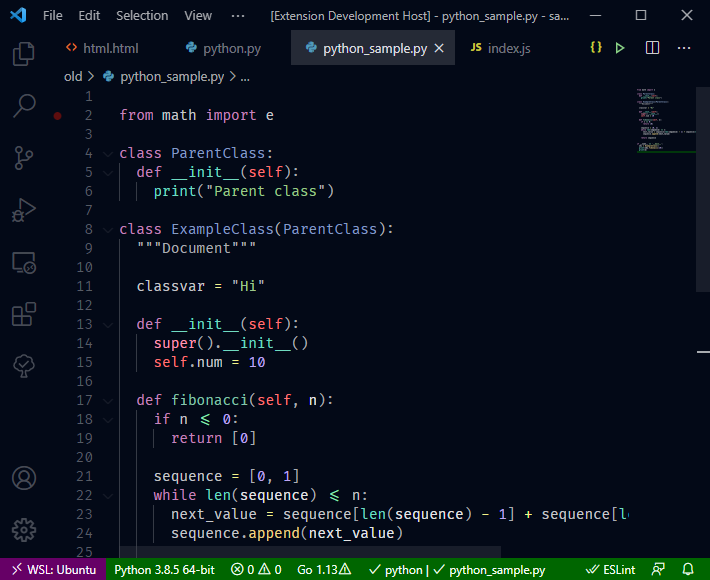
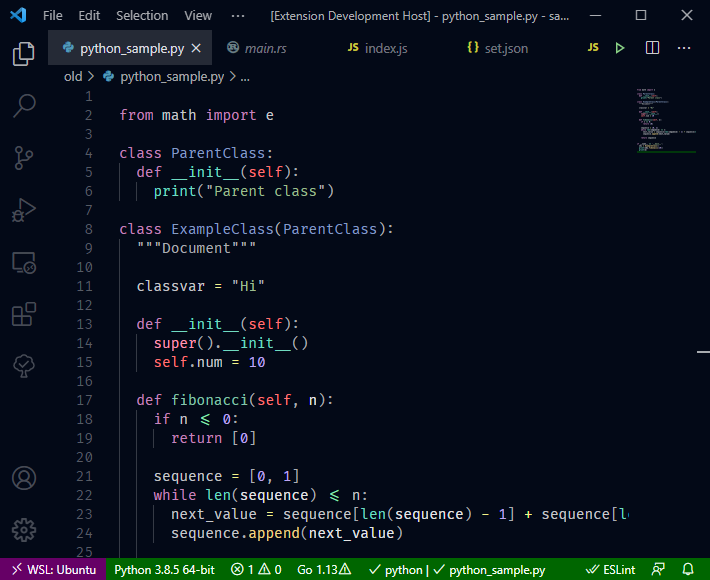
strings

diff --git a/src/token/semantic_regular.ts b/src/token/semantic_regular.ts
@@ -25,5 +25,5 @@ export const semanticRules: semanticRule = {
   type: /* ......................... */ { foreground: color.DarkTurquoise },
   "type.defaultLibrary": /* ........ */ { foreground: color.PinkSalmon, __italic: true },
   operator: /* ..................... */ { foreground: color.Jonquil },
-  string: /* ....................... */ { foreground: color.Olivine },
+  string: /* ....................... */ { foreground: color.SwampGreen },
 };

diff --git a/src/common/colors.ts b/src/common/colors.ts
@@ -26,7 +26,7 @@ export const tokenColorCode = {
   Mako: /* ................. */ mix("44"),
   Mischka: /* .............. */ mix("aa"),
   MonteCarlo: /* ........... */ "#85c3ab",
-  Olivine: /* .............. */ "#9ec78a",
+  SwampGreen: /* ........... */ "#9ebc8f",
   PaleCornflowerBlue: /* ... */ "#bfa6f2",
   PinkSalmon: /* ........... */ "#ff99b3",
   PoloBlue: /* ............. */ "#859dc3",

diff --git a/dist/token/textmate_regular.js b/dist/token/textmate_regular.js
@@ -202,7 +202,7 @@ export const textmateRules = [
         name: "String",
         scope: ["source.elixir.embedded.source", "storage.modifier.import.java", "string.quoted.double", "string"],
         settings: {
-            foreground: color.Olivine,
+            foreground: color.SwampGreen,
         },
     },
     {

diff --git a/dist/token/semantic_regular.js b/dist/token/semantic_regular.js
@@ -20,5 +20,5 @@ export const semanticRules = {
     type: { foreground: color.DarkTurquoise },
     "type.defaultLibrary": { foreground: color.PinkSalmon, __italic: true },
     operator: { foreground: color.Jonquil },
-    string: { foreground: color.Olivine },
+    string: { foreground: color.SwampGreen },
 };

diff --git a/src/token/textmate_regular.ts b/src/token/textmate_regular.ts
@@ -213,7 +213,7 @@ export const textmateRules: textmateRule[] = [
     name: "String",
     scope: ["source.elixir.embedded.source", "storage.modifier.import.java", "string.quoted.double", "string"],
     settings: {
-      foreground: color.Olivine,
+      foreground: color.SwampGreen,
     },
   },
   {

diff --git a/dist/common/colors.js b/dist/common/colors.js
@@ -19,7 +19,7 @@ export const tokenColorCode = {
     Mako: mix("44"),
     Mischka: mix("aa"),
     MonteCarlo: "#85c3ab",
-    Olivine: "#9ec78a",
+    SwampGreen: "#9ebc8f",
     PaleCornflowerBlue: "#bfa6f2",
     PinkSalmon: "#ff99b3",
     PoloBlue: "#859dc3",

diff --git a/README.md b/README.md
@@ -2,6 +2,8 @@
 
 A dark theme for Night Coders. Contrast and italic variants are also available.
 
+All tokens in this theme have contrast ratio of at least 7 (except some comments and punctuations).
+
 ## Color Palette
 
 | Scope                                         | Color                                                     | Hex     |
@@ -18,7 +20,7 @@ A dark theme for Night Coders. Contrast and italic variants are also available.
 | Namespace/Class/Struct, HTML style tag        | ![#859dc3](https://via.placeholder.com/23/859dc3/?text=+) | #859dc3 |
 | Constant, HTML unrecognized tag               | ![#ff7575](https://via.placeholder.com/23/ff7575/?text=+) | #ff7575 |
 | Non variable constant, HTML custom tag        | ![#bfa6f2](https://via.placeholder.com/23/bfa6f2/?text=+) | #bfa6f2 |
-| String                                        | ![#9ec78a](https://via.placeholder.com/23/9ec78a/?text=+) | #9ec78a |
+| String                                        | ![#9ebc8f](https://via.placeholder.com/23/9ebc8f/?text=+) | #9ebc8f |
 | Operator                                      | ![#f2f28c](https://via.placeholder.com/23/f2f28c/?text=+) | #f2f28c |
 | Comparison/Logical operator                   | ![#93ecb8](https://via.placeholder.com/23/93ecb8/?text=+) | #93ecb8 |
 | Script tag                                    | ![#d9d326](https://via.placeholder.com/23/d9d326/?text=+) | #d9d326 |

diff --git a/CHANGELOG.md b/CHANGELOG.md
@@ -1,5 +1,9 @@
 # Changelog
 
+## 2.6.0
+
+- Lower contrast for strings
+
 ## 2.5.0
 
 - Lowered contrast ratios for function calls and properties a bit.
